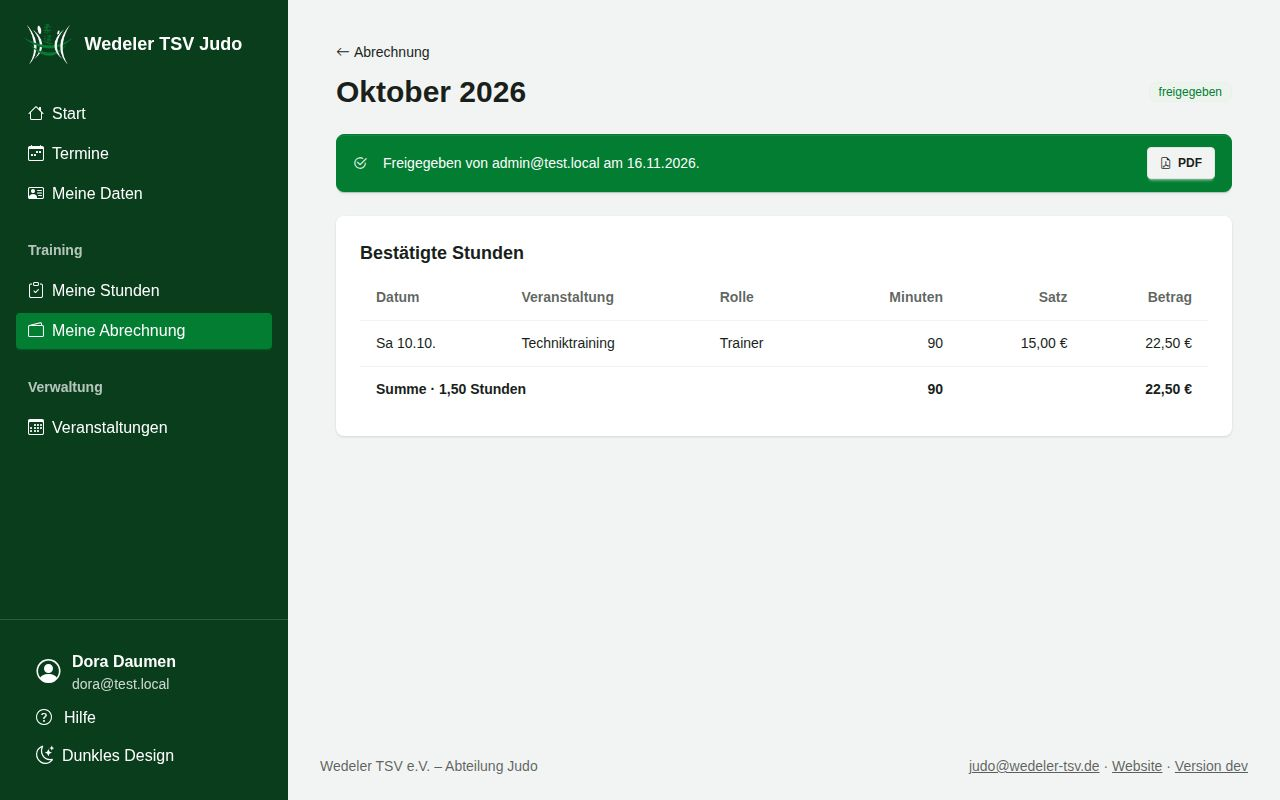
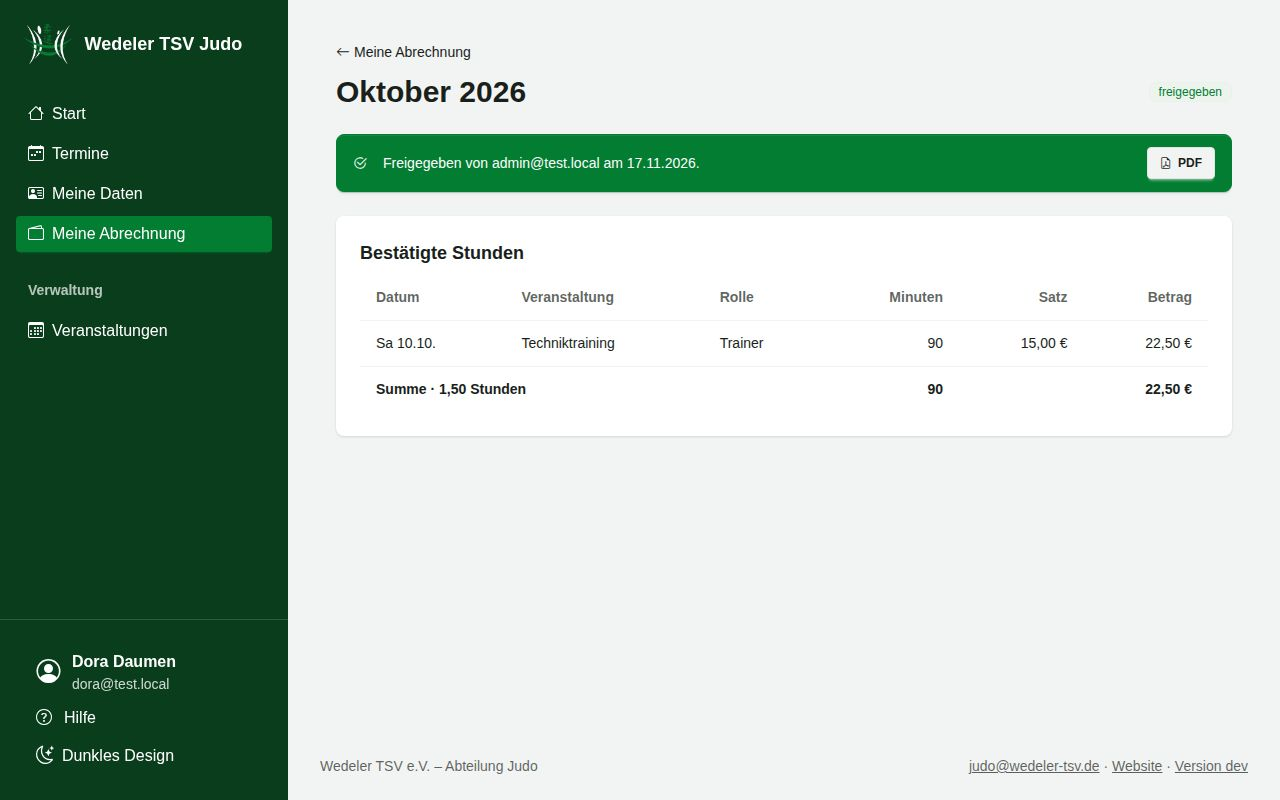
feat: „Meine Stunden“ geht in „Meine Abrechnung“ auf
„Meine Abrechnung“ zeigt oben unter „Noch bestätigen“ alle vergangenen,
unbestätigten Termine der offenen Monate. Die Minuten lassen sich jetzt auch
auf dem Handy im Monat ändern, und die Veranstaltung verlinkt zum Termin.
Kommende Einteilungen stehen unter „Termine“. Push-Benachrichtigungen,
Startseite und „Nicht dabei?“ führen zu „Meine Abrechnung“; die alten
Adressen /stunden/ und /einsaetze/ leiten dorthin weiter.

Claude-Session: https://claude.ai/code/session_017LHgXea5AxfRcr57bsDwjB

diff --git a/portal/billing/templates/billing/_lines.html b/portal/billing/templates/billing/_lines.html
@@ -8,14 +8,14 @@
     </tr></thead>
     <tbody>
     {% for line in lines %}
-      <tr>
+      <tr{% if editable %} class="max-md:border-b-0"{% endif %}>
         <td class="whitespace-nowrap">{{ line.day|date:"D d.m." }}</td>
-        <td>{{ line.event_title }}<div class="text-sm text-base-content/70 sm:hidden">{{ line.role_name }} · {{ line.minutes }} Min.{% if line.hourly_rate is not None %} · {{ line.hourly_rate|floatformat:"2g" }} €/h{% endif %}</div></td>
+        <td><a class="link link-hover" href="{% url 'occurrence_detail' line.participation.occurrence_id %}">{{ line.event_title }}</a><div class="text-sm text-base-content/70 sm:hidden">{{ line.role_name }} · {{ line.minutes }} Min.{% if line.hourly_rate is not None %} · {{ line.hourly_rate|floatformat:"2g" }} €/h{% endif %}</div></td>
         <td class="hidden sm:table-cell">{{ line.role_name }}</td>
         <td class="hidden text-right sm:table-cell">{{ line.minutes }}</td>
         <td class="hidden text-right whitespace-nowrap sm:table-cell">{% if line.hourly_rate is not None %}{{ line.hourly_rate|floatformat:"2g" }} €{% else %}<span class="badge badge-warning badge-sm">kein Satz</span>{% endif %}</td>
         <td class="text-right whitespace-nowrap">{% if line.amount is not None %}{{ line.amount|floatformat:"2g" }} €{% else %}<span class="badge badge-warning badge-sm">kein Satz</span>{% endif %}</td>
-        {% if editable %}<td class="hidden md:table-cell"><div class="flex items-center gap-1">
+        {% if editable %}<td class="hidden md:table-cell"><div class="flex items-center justify-end gap-1">
           <form method="post" action="{% url 'hours_confirm' line.participation.occurrence_id %}" class="join">{% csrf_token %}<input type="hidden" name="next" value="{{ request.path }}">
             <label class="sr-only" for="min-{{ line.participation.pk }}">Minuten für {{ line.event_title }} am {{ line.day|date:"d.m." }}</label>
             <input id="min-{{ line.participation.pk }}" class="input input-sm join-item w-20" type="number" name="minutes" min="1" max="1440" value="{{ line.minutes }}">
@@ -26,6 +26,20 @@
           </form>
         </div></td>{% endif %}
       </tr>
+      {% if editable %}{# Auf schmalen Bildschirmen: Dauer ändern in eigener Zeile, damit der Betrag sichtbar bleibt #}
+      <tr class="md:hidden">
+        <td colspan="6" class="pt-0"><div class="flex items-center justify-end gap-1">
+          <form method="post" action="{% url 'hours_confirm' line.participation.occurrence_id %}" class="join">{% csrf_token %}<input type="hidden" name="next" value="{{ request.path }}">
+            <label class="sr-only" for="min-m-{{ line.participation.pk }}">Minuten für {{ line.event_title }} am {{ line.day|date:"d.m." }}</label>
+            <input id="min-m-{{ line.participation.pk }}" class="input input-sm join-item w-20" type="number" name="minutes" min="1" max="1440" value="{{ line.minutes }}">
+            <button class="btn btn-sm join-item">Ändern</button>
+          </form>
+          <form method="post" action="{% url 'hours_unconfirm' line.participation.occurrence_id %}">{% csrf_token %}<input type="hidden" name="next" value="{{ request.path }}">
+            <button class="btn btn-ghost btn-sm" aria-label="Bestätigung für {{ line.event_title }} am {{ line.day|date:'d.m.' }} zurücknehmen" title="Bestätigung zurücknehmen"><i class="bi bi-arrow-counterclockwise" aria-hidden="true"></i></button>
+          </form>
+        </div></td>
+      </tr>
+      {% endif %}
     {% endfor %}
     </tbody>
     <tfoot><tr class="font-semibold text-base-content">
@@ -35,4 +49,4 @@
     </tr></tfoot>
   </table>
 </div>
-{% if editable %}<p class="text-sm text-base-content/70 md:hidden">Die Dauer änderst du unter <a class="link" href="{% url 'my_hours' %}">„Meine Stunden“</a>.</p>{% endif %}
+

diff --git a/portal/help/templates/help/chapters/stunden.html b/portal/help/templates/help/chapters/stunden.html
@@ -1,18 +1,18 @@
 {% load help %}
-<p>Unter <a href="{% url 'my_hours' %}">Meine Stunden</a> siehst du deine Termine als Übungsleiter. Bei Trainer, Co-Trainer und anderen abrechnungsrelevanten Rollen bestätigst du nach dem Termin deine Stunden; daraus entsteht die monatliche Abrechnung.</p>
-{% screenshot "stunden" "Meine Stunden mit bestätigten und offenen Terminen" %}
+<p>Bei Trainer, Co-Trainer und anderen abrechnungsrelevanten Rollen bestätigst du nach dem Termin deine Stunden; daraus entsteht die monatliche Abrechnung. Alles dazu findest du unter <a href="{% url 'billing_index' %}">Meine Abrechnung</a>. Deine kommenden Einteilungen siehst du unter <a href="{% url 'agenda' %}">Termine</a>.</p>
+{% screenshot "stunden" "Meine Abrechnung mit Terminen zum Bestätigen und den Monaten" %}
 
 <h2 id="bestaetigen">Stunden bestätigen</h2>
 <ol>
   <li>Am Abend des Termins kommt eine Erinnerung – mit dem Knopf <strong>Bestätigen</strong> geht es direkt aus der Nachricht.</li>
-  <li>Oder unter <a href="{% url 'my_hours' %}">Meine Stunden</a> beim Termin auf <strong>Bestätigen</strong> tippen. Die Dauer kommt aus dem Termin.</li>
-  <li>Hat es länger oder kürzer gedauert, trag die Minuten ein und tippe auf <strong>Ändern</strong>.</li>
+  <li>Oder unter <a href="{% url 'billing_index' %}">Meine Abrechnung</a> bei „Noch bestätigen“ auf <strong>Bestätigen</strong> tippen. Die Dauer kommt aus dem Termin.</li>
+  <li>Hat es länger oder kürzer gedauert, öffne den Monat, trag die Minuten ein und tippe auf <strong>Ändern</strong>.</li>
   <li>Versehentlich bestätigt? Mit <i class="bi bi-arrow-counterclockwise" aria-hidden="true"></i> (<strong>Bestätigung zurücknehmen</strong>) machst du es rückgängig.</li>
 </ol>
 <p>Ändern und zurücknehmen geht, bis der Monat zur Abrechnung eingereicht ist.</p>
 
 <h2 id="nicht-dabei">Nicht dabei?</h2>
-<p>Lief es anders als geplant, tippe in der Erinnerung, unter <a href="{% url 'my_hours' %}">Meine Stunden</a> oder am Termin auf <strong>Nicht dabei?</strong> und wähle:</p>
+<p>Lief es anders als geplant, tippe in der Erinnerung, unter <a href="{% url 'billing_index' %}">Meine Abrechnung</a> oder am Termin auf <strong>Nicht dabei?</strong> und wähle:</p>
 <ul>
   <li><strong>Ich war nicht dabei – austragen:</strong> Du bist als Übungsleiter des Termins ausgetragen.</li>
   <li><strong>Ich wurde vertreten:</strong> Wähle, wer dich vertreten hat und in welcher Rolle. Die Vertretung wird eingetragen und bekommt eine Push-Benachrichtigung, um ihre Stunden zu bestätigen.</li>
@@ -22,7 +22,7 @@
 
 <h2 id="abrechnung">Abrechnung einreichen</h2>
 <ol>
-  <li>Öffne unter Training <a href="{% url 'billing_index' %}">Meine Abrechnung</a> und den Monat.</li>
+  <li>Öffne <a href="{% url 'billing_index' %}">Meine Abrechnung</a> und den Monat.</li>
   <li>Prüfe die Zeilen: Datum, Veranstaltung, Rolle, Minuten, Satz und Betrag. Nicht bestätigte Termine stehen darunter und werden nicht abgerechnet.</li>
   <li>Nach Monatsende auf <strong>… einreichen</strong> tippen.</li>
 </ol>

diff --git a/portal/billing/templates/billing/index.html b/portal/billing/templates/billing/index.html
@@ -1,11 +1,18 @@
 {% extends "base.html" %}
 {% load help %}
-{% block title %}Abrechnung{% endblock %}
+{% block title %}Meine Abrechnung{% endblock %}
 {% block content %}
 <div class="mx-auto max-w-3xl">
-  <div class="flex items-center gap-1"><h1 class="text-3xl font-bold">Abrechnung</h1>{% help_link "stunden" %}</div>
-  <p class="mt-1 mb-6 text-base-content/70">Deine bestätigten Stunden je Monat. Nach Monatsende reichst du den Monat ein, die Abteilungsleitung gibt ihn frei. Frist ist der {{ deadline_day }}. des dritten Folgemonats, zum Beispiel für Januar der {{ deadline_day }}. April. Später geht es nur als Ausnahme, über die die Abteilungsleitung entscheidet.</p>
+  <div class="flex items-center gap-1"><h1 class="text-3xl font-bold">Meine Abrechnung</h1>{% help_link "stunden" %}</div>
+  <p class="mt-1 mb-6 text-base-content/70">Hier bestätigst du nach dem Termin deine Stunden. Nach Monatsende reichst du den Monat ein, die Abteilungsleitung gibt ihn frei. Frist ist der {{ deadline_day }}. des dritten Folgemonats, zum Beispiel für Januar der {{ deadline_day }}. April. Später geht es nur als Ausnahme, über die die Abteilungsleitung entscheidet.</p>
   {% if can_decide %}{% include "billing/_tabs.html" with active="own" is_trainer=True %}{% endif %}
+  {% if pending %}
+  <section class="card mb-6 bg-base-100 shadow-sm" aria-labelledby="h-bestaetigen"><div class="card-body">
+    <h2 class="card-title" id="h-bestaetigen">Noch bestätigen</h2>
+    <p class="text-sm text-base-content/70">Termine, bei denen du als Übungsleiter eingeteilt warst. Abgerechnet wird nur, was du bestätigst; die Dauer änderst du danach im Monat.</p>
+    {% include "billing/_unconfirmed.html" with rows=pending editable=True %}
+  </div></section>
+  {% endif %}
   <section class="card bg-base-100 shadow-sm" aria-labelledby="h-monate"><div class="card-body">
     <h2 class="card-title" id="h-monate">Monate</h2>
     <ul class="list">
@@ -13,13 +20,12 @@
       <li class="list-row items-center px-0">
         <div class="list-col-grow">
           <a class="link link-hover font-semibold" href="{% url 'billing_month' m.month.year m.month.month %}">{{ m.label }}</a>
-          <div class="text-sm text-base-content/70">{{ m.hours|floatformat:"2g" }} Stunden{% if m.lines %} · {{ m.total_amount|floatformat:"2g" }} €{% endif %}{% if m.unconfirmed %} · {{ m.unconfirmed|length }} nicht bestätigt{% endif %}</div>
+          <div class="text-sm text-base-content/70">{{ m.hours|floatformat:"2g" }} Stunden{% if m.lines %} · {{ m.total_amount|floatformat:"2g" }} €{% endif %}{% if m.pending %} · {{ m.pending|length }} noch zu bestätigen{% endif %}</div>
         </div>
         {% include "billing/_badge.html" with label=m.status %}
       </li>
       {% endfor %}
     </ul>
   </div></section>
-  <p class="mt-4 text-sm"><a class="link" href="{% url 'my_hours' %}">Zu „Meine Stunden“</a></p>
 </div>
 {% endblock %}

diff --git a/e2e/veranstaltungen.spec.ts b/e2e/veranstaltungen.spec.ts
@@ -2,6 +2,7 @@ import { expect, test } from "@playwright/test";
 import {
   ADMIN_STATE,
   acceptInvitation,
+  billingMonthPath,
   ensureYouthGroup,
   expectNoA11yViolations,
   importMembers,
@@ -106,24 +107,27 @@ test("Lehrgang anlegen, Übungsleiter eintragen, Kind mit Gewicht anmelden, Trai
   await parentContext.close();
 
   // Trainerin: Teilnehmer mit Notfallkontakt, Stunden des vergangenen Termins bestätigen
-  await trainer.goto("/stunden/");
-  await expectNoA11yViolations(trainer);
-  await trainer.getByRole("region", { name: "Kommende" }).getByRole("link", { name: "Randori-Lehrgang" }).click();
+  await trainer.goto("/termine/");
+  await trainer.getByRole("link", { name: "Randori-Lehrgang" }).first().click();
   await expect(trainer.getByRole("heading", { name: "Teilnehmer (1)" })).toBeVisible();
   await expect(trainer.getByText("„kommt mit dem Bus“")).toBeVisible();
   await expect(trainer.getByRole("link", { name: PARENT.email })).toBeVisible();
   await expectNoA11yViolations(trainer);
   // Mitglieder sieht sie sonst nicht
   expect((await trainer.goto("/mitglieder/"))?.status()).toBe(403);
-  await trainer.goto("/stunden/");
-  await trainer.getByRole("button", { name: /Randori-Lehrgang am .* bestätigen/ }).click();
+  // „Meine Abrechnung“: offene Termine aller Monate oben unter „Noch bestätigen“
+  await trainer.goto("/abrechnung/");
+  await expectNoA11yViolations(trainer);
+  await trainer.getByRole("region", { name: "Noch bestätigen" }).getByRole("button", { name: /Randori-Lehrgang am .* bestätigen/ }).click();
   await expect(trainer.getByText("Danke, deine Stunden sind bestätigt.")).toBeVisible();
-  await expect(trainer.getByText("bestätigt · 240 Min.")).toBeVisible();
-  // Versehentlich bestätigt? Zurücknehmen und erneut bestätigen
+  await expect(trainer.getByRole("region", { name: "Noch bestätigen" })).toHaveCount(0);
+  // Im Monat: Dauer sehen, versehentlich bestätigt? Zurücknehmen und erneut bestätigen
+  await trainer.goto(billingMonthPath(1));
+  await expect(trainer.getByRole("spinbutton", { name: /Minuten für Randori-Lehrgang/ })).toHaveValue("240");
   await trainer.getByRole("button", { name: /Bestätigung für Randori-Lehrgang am .* zurücknehmen/ }).click();
   await expect(trainer.getByText("Die Bestätigung ist zurückgenommen.")).toBeVisible();
   await trainer.getByRole("button", { name: /Randori-Lehrgang am .* bestätigen/ }).click();
-  await expect(trainer.getByText("bestätigt · 240 Min.")).toBeVisible();
+  await expect(trainer.getByRole("spinbutton", { name: /Minuten für Randori-Lehrgang/ })).toHaveValue("240");
   await expectNoA11yViolations(trainer);
   await trainerContext.close();
   await admin.context().close();

diff --git a/portal/billing/templates/billing/month.html b/portal/billing/templates/billing/month.html
@@ -2,7 +2,7 @@
 {% block title %}Abrechnung {{ overview.label }}{% endblock %}
 {% block content %}
 <div class="mx-auto max-w-4xl">
-  <a href="{% url 'billing_index' %}" class="link link-hover mb-3 inline-flex items-center gap-1 text-sm"><i class="bi bi-arrow-left" aria-hidden="true"></i> Abrechnung</a>
+  <a href="{% url 'billing_index' %}" class="link link-hover mb-3 inline-flex items-center gap-1 text-sm"><i class="bi bi-arrow-left" aria-hidden="true"></i> Meine Abrechnung</a>
   <div class="mb-6 flex flex-wrap items-center justify-between gap-3">
     <h1 class="text-3xl font-bold">{{ overview.label }}</h1>
     {% include "billing/_badge.html" with label=overview.status %}
@@ -47,24 +47,7 @@
   <section class="card bg-base-100 shadow-sm" aria-labelledby="h-offen"><div class="card-body">
     <h2 class="card-title" id="h-offen">Nicht bestätigt</h2>
     <p class="text-sm text-base-content/70">Diese Termine werden nicht abgerechnet, solange du sie nicht bestätigst.</p>
-    <ul class="list">
-      {% for p in overview.unconfirmed %}
-      <li class="list-row items-center px-0">
-        <div class="list-col-grow">
-          <a class="link link-hover font-semibold" href="{% url 'occurrence_detail' p.occurrence_id %}">{{ p.occurrence.event.title }}</a>
-          <div class="text-sm text-base-content/70">{{ p.occurrence.starts_at|date:"D d.m. H:i" }} Uhr · {{ p.role.name }} · {{ p.occurrence.minutes }} Min.</div>
-        </div>
-        {% if overview.is_open and p.occurrence.starts_at <= now %}
-        <div class="flex flex-wrap items-center justify-end gap-1">
-        <form method="post" action="{% url 'hours_confirm' p.occurrence_id %}">{% csrf_token %}<input type="hidden" name="minutes" value="{{ p.occurrence.minutes }}"><input type="hidden" name="next" value="{{ request.path }}">
-          <button class="btn btn-primary btn-sm" aria-label="{{ p.occurrence.event.title }} am {{ p.occurrence.starts_at|date:'d.m.' }} bestätigen">Bestätigen</button>
-        </form>
-        <a class="btn btn-ghost btn-sm" href="{% url 'hours_absent' p.occurrence_id %}" aria-label="Nicht dabei? {{ p.occurrence.event.title }} am {{ p.occurrence.starts_at|date:'d.m.' }}">Nicht dabei?</a>
-        </div>
-        {% endif %}
-      </li>
-      {% endfor %}
-    </ul>
+    {% include "billing/_unconfirmed.html" with rows=overview.unconfirmed editable=overview.is_open %}
   </div></section>
   {% endif %}
 </div>

diff --git a/e2e/hilfe.spec.ts b/e2e/hilfe.spec.ts
@@ -1,6 +1,6 @@
 import { expect, test, type Browser, type BrowserContextOptions, type Page } from "@playwright/test";
 import { mkdirSync } from "node:fs";
-import { ADMIN_STATE, freshNotificationPermission, loginWithPassword } from "./helpers";
+import { ADMIN_STATE, billingMonthPath, freshNotificationPermission, loginWithPassword } from "./helpers";
 
 /**
  * Screenshots für die Hilfe im Portal (ADR 0016). Läuft als eigenes Projekt nach allen anderen Tests und nutzt deren
@@ -108,17 +108,17 @@ test("Screenshots für die Hilfe", async ({ browser }) => {
 
   // Trainerin
   await shoot(browser, clara, "stunden", async (page) => {
-    await page.goto("/stunden/");
-    await expect(page.getByRole("heading", { level: 1, name: "Meine Stunden" })).toBeVisible();
+    await page.goto("/abrechnung/");
+    await expect(page.getByRole("heading", { level: 1, name: "Meine Abrechnung" })).toBeVisible();
   });
   await shoot(browser, clara, "termin-team", async (page) => {
-    await page.goto("/stunden/");
-    await page.getByRole("region", { name: "Kommende" }).getByRole("link", { name: "Randori-Lehrgang" }).click();
+    await page.goto("/termine/");
+    await page.getByRole("link", { name: "Randori-Lehrgang" }).first().click();
     await expect(page.getByRole("heading", { name: /Teilnehmer/ })).toBeVisible();
   });
   await shoot(browser, clara, "nicht-dabei", async (page) => {
-    await page.goto("/stunden/");
-    const href = await page.getByRole("region", { name: "Vergangen" }).getByRole("link", { name: "Randori-Lehrgang" }).first().getAttribute("href");
+    await page.goto(billingMonthPath(1));
+    const href = await page.getByRole("link", { name: "Randori-Lehrgang" }).first().getAttribute("href");
     await page.goto(`${href}nicht-dabei/`);
     await page.getByLabel("Ich wurde vertreten").check();
     await expect(page.getByLabel("Vertreten von")).toBeVisible();

diff --git a/portal/events/templates/events/hours_absent.html b/portal/events/templates/events/hours_absent.html
@@ -3,7 +3,7 @@
 {% block title %}Nicht dabei?{% endblock %}
 {% block content %}
 <div class="mx-auto max-w-2xl">
-  <a href="{% url 'my_hours' %}" class="link link-hover mb-3 inline-flex items-center gap-1 text-sm"><i class="bi bi-arrow-left" aria-hidden="true"></i> Meine Stunden</a>
+  <a href="{% url 'billing_index' %}" class="link link-hover mb-3 inline-flex items-center gap-1 text-sm"><i class="bi bi-arrow-left" aria-hidden="true"></i> Meine Abrechnung</a>
   <div class="card bg-base-100 shadow-sm"><div class="card-body gap-4">
     <div class="flex items-center gap-1"><h1 class="text-2xl font-bold">Nicht dabei?</h1>{% help_link "stunden" %}</div>
     <p><a class="link font-semibold" href="{% url 'occurrence_detail' occurrence.pk %}">{{ occurrence.event.title }}</a> am {{ occurrence.starts_at|date:"l, d.m.Y" }} um {{ occurrence.starts_at|date:"H:i" }} Uhr – du warst als <strong>{{ participation.role.name }}</strong> eingetragen{% if participation.is_confirmed %} und hast {{ participation.minutes }} Minuten bestätigt{% endif %}.</p>
@@ -24,7 +24,7 @@
         <p class="text-sm text-base-content/70">Die Vertretung bekommt eine Push-Benachrichtigung (sonst Mail) und bestätigt ihre Stunden selbst.</p>
       </fieldset>
       <p class="text-sm text-base-content/70">Absagen: Der Termin gilt als ausgefallen, Teilnehmer bekommen keine Nachricht mehr.</p>
-      <div class="flex flex-wrap gap-2"><button type="submit" class="btn btn-primary">Speichern</button><a class="btn" href="{% url 'my_hours' %}">Abbrechen</a></div>
+      <div class="flex flex-wrap gap-2"><button type="submit" class="btn btn-primary">Speichern</button><a class="btn" href="{% url 'billing_index' %}">Abbrechen</a></div>
     </form>
     {% endif %}
   </div></div>

diff --git a/portal/billing/templates/billing/_unconfirmed.html b/portal/billing/templates/billing/_unconfirmed.html
@@ -1,0 +1,19 @@
+{# Nicht bestätigte Termine mit „Bestätigen“ und „Nicht dabei?“ (Monat und Übersicht „Meine Abrechnung“). #}
+    <ul class="list">
+      {% for p in rows %}
+      <li class="list-row items-center px-0">
+        <div class="list-col-grow">
+          <a class="link link-hover font-semibold" href="{% url 'occurrence_detail' p.occurrence_id %}">{{ p.occurrence.event.title }}</a>
+          <div class="text-sm text-base-content/70">{{ p.occurrence.starts_at|date:"D d.m. H:i" }} Uhr · {{ p.role.name }} · {{ p.occurrence.minutes }} Min.</div>
+        </div>
+        {% if editable and p.occurrence.starts_at <= now %}
+        <div class="flex flex-wrap items-center justify-end gap-1">
+        <form method="post" action="{% url 'hours_confirm' p.occurrence_id %}">{% csrf_token %}<input type="hidden" name="minutes" value="{{ p.occurrence.minutes }}"><input type="hidden" name="next" value="{{ request.path }}">
+          <button class="btn btn-primary btn-sm" aria-label="{{ p.occurrence.event.title }} am {{ p.occurrence.starts_at|date:'d.m.' }} bestätigen">Bestätigen</button>
+        </form>
+        <a class="btn btn-ghost btn-sm" href="{% url 'hours_absent' p.occurrence_id %}" aria-label="Nicht dabei? {{ p.occurrence.event.title }} am {{ p.occurrence.starts_at|date:'d.m.' }}">Nicht dabei?</a>
+        </div>
+        {% endif %}
+      </li>
+      {% endfor %}
+    </ul>

diff --git a/portal/billing/templates/billing/claim_detail.html b/portal/billing/templates/billing/claim_detail.html
@@ -2,7 +2,7 @@
 {% block title %}Abrechnung {{ claim.member.display_name }} {{ claim.month_label }}{% endblock %}
 {% block content %}
 <div class="mx-auto max-w-4xl">
-  <a href="{% if can_decide %}{% url 'claim_list' %}{% else %}{% url 'billing_index' %}{% endif %}" class="link link-hover mb-3 inline-flex items-center gap-1 text-sm"><i class="bi bi-arrow-left" aria-hidden="true"></i> {% if can_decide %}Abrechnungen{% else %}Abrechnung{% endif %}</a>
+  <a href="{% if can_decide %}{% url 'claim_list' %}{% else %}{% url 'billing_index' %}{% endif %}" class="link link-hover mb-3 inline-flex items-center gap-1 text-sm"><i class="bi bi-arrow-left" aria-hidden="true"></i> {% if can_decide %}Abrechnungen{% else %}Meine Abrechnung{% endif %}</a>
   <div class="mb-6 flex flex-wrap items-center justify-between gap-3">
     <div><h1 class="text-3xl font-bold">{{ claim.member.display_name }}</h1><p class="mt-1 text-base-content/70">{{ claim.month_label }}{% if claim.member.member_number %} · Mitgliedsnummer {{ claim.member.member_number }}{% endif %}</p></div>
     <div class="flex flex-wrap gap-1">{% if claim.is_late %}<span class="badge badge-warning badge-sm">verspätet</span>{% endif %}{% include "billing/_badge.html" with label=claim.get_status_display %}</div>

diff --git a/portal/templates/core/home.html b/portal/templates/core/home.html
@@ -7,7 +7,7 @@
   <h1 class="text-3xl font-bold">Hallo {{ user.get_short_name }}</h1>
   {% if open_hours or open_claims %}
   <ul class="mt-3 flex flex-wrap gap-2" aria-label="Zu erledigen">
-    {% if open_hours %}<li><a class="badge badge-soft badge-primary gap-1 py-3 hover:underline" href="{% url 'my_hours' %}">{{ open_hours }} Termin{{ open_hours|pluralize:"e" }}: Stunden bestätigen <i class="bi bi-arrow-right" aria-hidden="true"></i></a></li>{% endif %}
+    {% if open_hours %}<li><a class="badge badge-soft badge-primary gap-1 py-3 hover:underline" href="{% url 'billing_index' %}">{{ open_hours }} Termin{{ open_hours|pluralize:"e" }}: Stunden bestätigen <i class="bi bi-arrow-right" aria-hidden="true"></i></a></li>{% endif %}
     {% if open_claims %}<li><a class="badge badge-soft badge-primary gap-1 py-3 hover:underline" href="{% url 'claim_list' %}">{{ open_claims }} Abrechnung{{ open_claims|pluralize:"en" }} zu prüfen <i class="bi bi-arrow-right" aria-hidden="true"></i></a></li>{% endif %}
   </ul>
   {% endif %}

diff --git a/e2e/helpers.ts b/e2e/helpers.ts
@@ -100,6 +100,12 @@ export async function ensureYouthGroup(page: Page) {
   await expect(page.getByRole("heading", { level: 1, name: "Kinder und Jugend" })).toBeVisible();
 }
 
+/** Pfad der eigenen Monatsabrechnung für den Monat, in dem der Tag vor n Tagen liegt. */
+export function billingMonthPath(daysAgo: number): string {
+  const day = new Date(Date.now() - daysAgo * 86_400_000);
+  return `/abrechnung/${day.getFullYear()}/${day.getMonth() + 1}/`;
+}
+
 /** Datum in n Tagen für Felder vom Typ datetime-local, z. B. „2026-11-25T10:00“. */
 export function localDateTime(days: number, time: string): string {
   const day = new Date(Date.now() + days * 86_400_000);

diff --git a/portal/help/templates/help/chapters/team.html b/portal/help/templates/help/chapters/team.html
@@ -3,7 +3,7 @@
 
 <h2 id="eintragen">Sich eintragen</h2>
 <ol>
-  <li>Öffne den Termin (über <a href="{% url 'agenda' %}">Termine</a> oder <a href="{% url 'my_hours' %}">Meine Stunden</a>).</li>
+  <li>Öffne den Termin (über <a href="{% url 'agenda' %}">Termine</a>).</li>
   <li>Tippe auf <strong>Mich als Trainer eintragen</strong> bzw. <strong>Mich als Co-Trainer eintragen</strong>.</li>
 </ol>
 <p>Bei Trainings mit festem Zeitplan teilt die Abteilungsleitung meist feste Übungsleiter ein; dann stehst du automatisch bei allen kommenden Terminen.</p>
